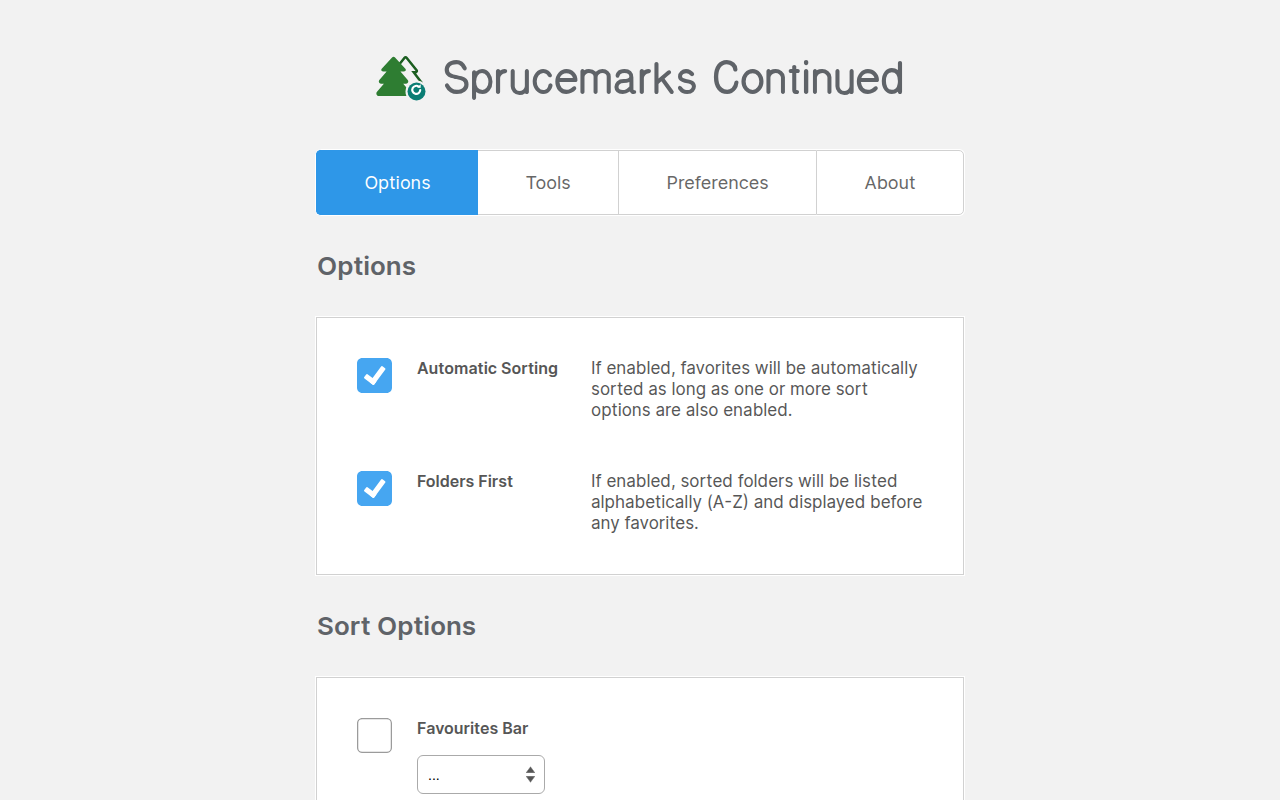
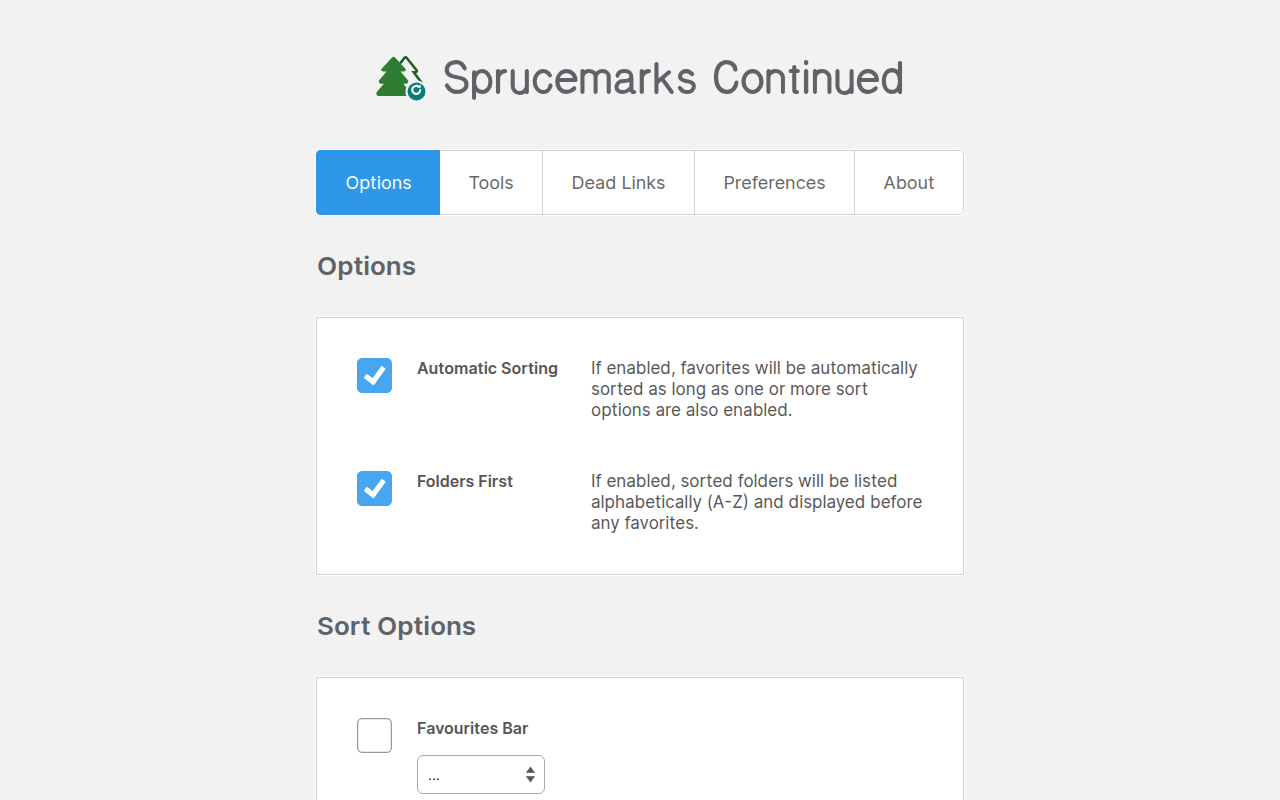
Release 2026.11.15.0: Dead Links
Version bump and changelog. Store listing: justification for the optional
host permissions, description with Dead Links (934 characters), privacy
note, certification notes for this update. Screenshot 3 is now the Dead
Links page (duplicates retired); 1, 5 and 6 refreshed for the new
navigation tab. Release steps: tag only when no earlier version is still
in store review.

Changed region(s): [[0.2812, 0.1875, 0.7188, 0.2812]]

diff --git a/store/make-store-assets.js b/store/make-store-assets.js
@@ -37,7 +37,23 @@ const SHOTS = [
             for (const c of [...s.querySelectorAll('input[type=checkbox]')].slice(0, 2)) { if (!c.checked) c.click(); ${wait(400)} }
             [...s.querySelectorAll('select')].slice(0, 2).forEach((x, i) => { x.value = ['alpha', 'date'][i]; x.dispatchEvent(new Event('change', { bubbles: true })) });
             ${wait(800)}; ${scrollTo('s', 110)}`, wait: 2000 },
-    { name: '3-duplicates', url: 'page/light/dark/tools.html', js: scrollTo(`document.getElementById('tool-duplicate-bookmarks')`, 30) },
+    { name: '3-dead-links', url: 'page/light/dark/dead-links.html',
+        // results are filled in (the screenshot browser can't check real websites); same shapes a real check produces
+        js: `const bm = await dead_links_page.bookmarks()
+            const pick = (title) => Object.values(bm).find((b) => b.title === title)
+            const row = (title, result, status, new_url) => { const b = pick(title); return [b.id, { url: b.url, title: b.title, location: b.location, result, status, new_url: new_url || '', dead: result === 'not_found' || result === 'unreachable', preselect: result === 'not_found', checked_at: Date.now() }] }
+            dead_links_page.state.results = Object.fromEntries([
+                row('Sourdough starter guide', 'not_found', 404),
+                row('Wikipedia - Spruce', 'not_found', 410),
+                row('Rome2Rio', 'unreachable', 0),
+                row('Archive.org', 'moved', 200, 'https://archive.org/details/booksbylanguage'),
+                row('MusicBrainz', 'timeout', 0),
+                row('Hacker News', 'unverified', 403)
+            ])
+            dead_links_page.selected = Object.fromEntries(Object.entries(dead_links_page.state.results).filter(([id, r]) => r.preselect).map(([id]) => [id, true]))
+            dead_links_page.state.last_run = { when: Date.now() - 180000, checked: 26, problems: 6, skipped_local: 0, stopped: false }
+            dead_links_page.render()
+            ${scrollTo(`document.querySelector('.dead-links-status')`, 120)}`, wait: 1000 },
     { name: '4-similar', url: 'page/light/dark/tools.html', js: scrollTo(`document.getElementById('tool-similar-bookmarks')`, 30) },
     { name: '5-preferences-dark', url: 'page/light/dark/preferences.html',
         js: `[...document.querySelectorAll('label')].find((l) => l.textContent.trim() === 'Dark').click()`, wait: 3000 },

diff --git a/deploy/page/dark/dark/about.html b/deploy/page/dark/dark/about.html
@@ -165,6 +165,27 @@
 
             <div class="box">
                 <div class="box-inner">
+                    <h3>November 15, 2026 &middot; version 2026.11.15.0</h3>
+
+                    <ul>
+                        <li>
+                            New Dead Links page: find <span class="only-non-edge">bookmarks</span><span class="only-edge">favorites</span> whose page no longer exists, has moved, or could not be verified, then update, ignore, or remove them.
+                        </li>
+                        <li>
+                            Nothing is checked until you click Check Links, and website access is asked for only then. Checks send no cookies and go straight from your browser to each site, at a polite pace.
+                        </li>
+                        <li>
+                            Removing saves a backup file first, which any browser can import to restore what was removed.
+                        </li>
+                        <li>
+                            Filter results by type and by site, select all, recheck only the problems, or start over.
+                        </li>
+                    </ul>
+                </div><!-- box-inner -->
+            </div><!-- box -->
+
+            <div class="box">
+                <div class="box-inner">
                     <h3>November 14, 2026 &middot; version 2026.11.14.1</h3>
 
                     <ul>

diff --git a/deploy/page/dark/green/about.html b/deploy/page/dark/green/about.html
@@ -165,6 +165,27 @@
 
             <div class="box">
                 <div class="box-inner">
+                    <h3>November 15, 2026 &middot; version 2026.11.15.0</h3>
+
+                    <ul>
+                        <li>
+                            New Dead Links page: find <span class="only-non-edge">bookmarks</span><span class="only-edge">favorites</span> whose page no longer exists, has moved, or could not be verified, then update, ignore, or remove them.
+                        </li>
+                        <li>
+                            Nothing is checked until you click Check Links, and website access is asked for only then. Checks send no cookies and go straight from your browser to each site, at a polite pace.
+                        </li>
+                        <li>
+                            Removing saves a backup file first, which any browser can import to restore what was removed.
+                        </li>
+                        <li>
+                            Filter results by type and by site, select all, recheck only the problems, or start over.
+                        </li>
+                    </ul>
+                </div><!-- box-inner -->
+            </div><!-- box -->
+
+            <div class="box">
+                <div class="box-inner">
                     <h3>November 14, 2026 &middot; version 2026.11.14.1</h3>
 
                     <ul>

diff --git a/deploy/page/dark/light/about.html b/deploy/page/dark/light/about.html
@@ -165,6 +165,27 @@
 
             <div class="box">
                 <div class="box-inner">
+                    <h3>November 15, 2026 &middot; version 2026.11.15.0</h3>
+
+                    <ul>
+                        <li>
+                            New Dead Links page: find <span class="only-non-edge">bookmarks</span><span class="only-edge">favorites</span> whose page no longer exists, has moved, or could not be verified, then update, ignore, or remove them.
+                        </li>
+                        <li>
+                            Nothing is checked until you click Check Links, and website access is asked for only then. Checks send no cookies and go straight from your browser to each site, at a polite pace.
+                        </li>
+                        <li>
+                            Removing saves a backup file first, which any browser can import to restore what was removed.
+                        </li>
+                        <li>
+                            Filter results by type and by site, select all, recheck only the problems, or start over.
+                        </li>
+                    </ul>
+                </div><!-- box-inner -->
+            </div><!-- box -->
+
+            <div class="box">
+                <div class="box-inner">
                     <h3>November 14, 2026 &middot; version 2026.11.14.1</h3>
 
                     <ul>

diff --git a/deploy/page/light/dark/about.html b/deploy/page/light/dark/about.html
@@ -165,6 +165,27 @@
 
             <div class="box">
                 <div class="box-inner">
+                    <h3>November 15, 2026 &middot; version 2026.11.15.0</h3>
+
+                    <ul>
+                        <li>
+                            New Dead Links page: find <span class="only-non-edge">bookmarks</span><span class="only-edge">favorites</span> whose page no longer exists, has moved, or could not be verified, then update, ignore, or remove them.
+                        </li>
+                        <li>
+                            Nothing is checked until you click Check Links, and website access is asked for only then. Checks send no cookies and go straight from your browser to each site, at a polite pace.
+                        </li>
+                        <li>
+                            Removing saves a backup file first, which any browser can import to restore what was removed.
+                        </li>
+                        <li>
+                            Filter results by type and by site, select all, recheck only the problems, or start over.
+                        </li>
+                    </ul>
+                </div><!-- box-inner -->
+            </div><!-- box -->
+
+            <div class="box">
+                <div class="box-inner">
                     <h3>November 14, 2026 &middot; version 2026.11.14.1</h3>
 
                     <ul>

diff --git a/deploy/page/light/green/about.html b/deploy/page/light/green/about.html
@@ -165,6 +165,27 @@
 
             <div class="box">
                 <div class="box-inner">
+                    <h3>November 15, 2026 &middot; version 2026.11.15.0</h3>
+
+                    <ul>
+                        <li>
+                            New Dead Links page: find <span class="only-non-edge">bookmarks</span><span class="only-edge">favorites</span> whose page no longer exists, has moved, or could not be verified, then update, ignore, or remove them.
+                        </li>
+                        <li>
+                            Nothing is checked until you click Check Links, and website access is asked for only then. Checks send no cookies and go straight from your browser to each site, at a polite pace.
+                        </li>
+                        <li>
+                            Removing saves a backup file first, which any browser can import to restore what was removed.
+                        </li>
+                        <li>
+                            Filter results by type and by site, select all, recheck only the problems, or start over.
+                        </li>
+                    </ul>
+                </div><!-- box-inner -->
+            </div><!-- box -->
+
+            <div class="box">
+                <div class="box-inner">
                     <h3>November 14, 2026 &middot; version 2026.11.14.1</h3>
 
                     <ul>

diff --git a/deploy/page/light/light/about.html b/deploy/page/light/light/about.html
@@ -165,6 +165,27 @@
 
             <div class="box">
                 <div class="box-inner">
+                    <h3>November 15, 2026 &middot; version 2026.11.15.0</h3>
+
+                    <ul>
+                        <li>
+                            New Dead Links page: find <span class="only-non-edge">bookmarks</span><span class="only-edge">favorites</span> whose page no longer exists, has moved, or could not be verified, then update, ignore, or remove them.
+                        </li>
+                        <li>
+                            Nothing is checked until you click Check Links, and website access is asked for only then. Checks send no cookies and go straight from your browser to each site, at a polite pace.
+                        </li>
+                        <li>
+                            Removing saves a backup file first, which any browser can import to restore what was removed.
+                        </li>
+                        <li>
+                            Filter results by type and by site, select all, recheck only the problems, or start over.
+                        </li>
+                    </ul>
+                </div><!-- box-inner -->
+            </div><!-- box -->
+
+            <div class="box">
+                <div class="box-inner">
                     <h3>November 14, 2026 &middot; version 2026.11.14.1</h3>
 
                     <ul>

diff --git a/store/listing.md b/store/listing.md
@@ -18,7 +18,9 @@ Copy these into Partner Center (Microsoft Edge → your extension). Images are i
 ## Properties
 
 - Category: **Productivity**
-- Privacy policy URL: `https://github.com/vitorhmcorreia/sprucemarks-continued/blob/main/PRIVACY.md`
+- Privacy policy URL: `https://github.com/vitorhmcorreia/sprucemarks-continued/blob/main/PRIVACY.md` (from
+  2026.11.15.0 it also describes the Dead Links checks; data collection answers stay "none": the checks contact the
+  bookmarked sites themselves and nothing is collected)
   (strictly only required when an extension collects personal data; this one collects none, but a link costs nothing
   and answers the question up front)
 - Website URL: `https://github.com/vitorhmcorreia/sprucemarks-continued`
@@ -39,13 +41,20 @@ Sprucemarks Continued sorts the user's favorites. It needs the bookmarks permiss
 Used to save the user's options (which folders to sort and how), preferences (theme, toolbar icon color) and the optional favorites history shown on the Tools page, in local extension storage on the user's device. Nothing is synced or sent anywhere.
 ```
 
+**Optional host permissions (`http://*/*`, `https://*/*`), from 2026.11.15.0:**
+
+```
+Optional, never requested at install. Used only by the Dead Links page: when the user clicks "Check Links", the extension asks for this access, then sends a HEAD (or, to confirm a failure, a GET stopped after the headers) to each bookmarked address to see whether the page still exists, has moved, or is gone. Requests go directly from the browser to those sites, without cookies, at most 5 per second and 1.5 s apart per site, backing off when a site asks. Nothing is sent to the developer or anyone else. The user can revoke the access on that page at any time.
+```
+
 ## Store listing (English)
 
 **Short description** comes from the package (`source/_locales/en/messages.json`), 99 characters:
 
 > Automatically sort bookmarks by title, date, or URL. A community fork that keeps Sprucemarks alive.
 
-**Description** (888 characters; Partner Center allows 250 to 1,000, although Microsoft's docs say 10,000):
+**Description** (934 characters; Partner Center allows 250 to 1,000, although Microsoft's docs say 10,000; updated
+for 2026.11.15.0 with Dead Links):
 
 ```
 Sprucemarks Continued keeps your favorites in order, automatically.
@@ -53,14 +62,13 @@ Sprucemarks Continued keeps your favorites in order, automatically.
 Choose a sort order for the favorites bar, other favorites and mobile favorites, each with its own setting for sub folders, and your favorites stay sorted as you add, move or rename them.
 
 • Sort by title, date added or URL, in either direction
-• Optionally list folders first
-• Tools to find empty folders, duplicate favorites and similar favorites
-• Favorites history: recently added, modified or removed
+• Tools to find empty folders, duplicate and similar favorites
+• Dead Links: find favorites whose page is gone or has moved, then update, ignore or remove them, with a backup file first
 • Light and dark themes
 
-Privacy: everything happens inside your browser. No data is collected or sent anywhere, with no analytics, ads or tracking.
+Privacy: no data is collected, no analytics, ads or tracking. Dead Links contacts the bookmarked sites directly from your browser, only when you click Check Links and allow it.
 
-Sprucemarks Continued is an unofficial community fork of Sprucemarks by Kai Nightmode, archived in 2026 and dedicated to the public domain. It is not affiliated with or endorsed by the original author. Source code: github.com/vitorhmcorreia/sprucemarks-continued
+An unofficial community fork of Sprucemarks by Kai Nightmode, archived in 2026 and dedicated to the public domain; not affiliated with or endorsed by the original author. Source code: github.com/vitorhmcorreia/sprucemarks-continued
 ```
 
 **Extension logo:** `logo-300.png` (300×300, 1:1)
@@ -73,7 +81,7 @@ Sprucemarks Continued is an unofficial community fork of Sprucemarks by Kai Nigh
 
 1. `screenshots/1-options.png`: options, automatic sorting on
 2. `screenshots/2-sort-options.png`: a sort order per folder and its sub folders
-3. `screenshots/3-duplicates.png`: duplicate favorites tool
+3. `screenshots/3-dead-links.png`: Dead Links results (from 2026.11.15.0; before that `3-duplicates.png`)
 4. `screenshots/4-similar.png`: similar favorites tool
 5. `screenshots/5-preferences-dark.png`: preferences, dark theme
 6. `screenshots/6-about-dark.png`: about this fork
@@ -108,4 +116,17 @@ submission except `1-options.png` and `5-preferences-dark.png`, which now show t
 
 ```
 Update with no new permissions (still only "bookmarks" and "storage"). Changes: the Tools page finds similar favorites about 15 times faster on large collections; the About page shows a timing summary and which build is running; a green page logo matching the icon; developer console logging is off; links to this listing. No network requests, no data collected. Source and change history: https://github.com/vitorhmcorreia/sprucemarks-continued
+```
+
+### 2026.11.15.0
+
+Submit only after 2026.11.14.1 is published: a new submission replaces one still in review and restarts its review.
+
+- Permissions: add the justification for the optional host permissions (above).
+- Description: replace with the updated one above.
+- Screenshots: replace `3-duplicates.png` with `3-dead-links.png`, and replace `1-options.png`, `5-preferences-dark.png`
+  and `6-about-dark.png` (the navigation now has a Dead Links tab; the About changelog is new). `2` and `4` are unchanged.
+
+```
+This update adds a Dead Links page and declares OPTIONAL host permissions (http://*/*, https://*/*). They are never requested at install; the extension asks for them only when the user clicks "Check Links" on that page, and the user can revoke them there. Required permissions are unchanged (bookmarks, storage). To test: open the extension, go to the Dead Links tab, click Check Links and allow the access; the page lists favorites whose address returns 404/410 (not found), cannot be reached, has moved, or could not be verified. Requests go directly to the bookmarked sites, without cookies, rate limited (1.5 s per site, 5/s overall, back-off on 429/503). Removing selected favorites first downloads a standard bookmarks HTML backup. No data is collected or sent to the developer. Source: https://github.com/vitorhmcorreia/sprucemarks-continued
 ```

diff --git a/ARCHITECTURE.md b/ARCHITECTURE.md
@@ -99,6 +99,9 @@ notice for people moving from the archived original (D6).
   2. `node build.js`, load `deploy/` unpacked and look it over, commit and push, wait for CI to pass;
   3. `git tag -a v<version> -m "<release notes>"` and `git push origin v<version>`: the Release workflow checks the
      version, runs the tests, builds the zip and publishes the GitHub Release (D12, D15);
-  4. upload that zip (from the release, or `node build.js --no-tests --zip`) to Partner Center.
+  4. upload that zip (from the release, or `node build.js --no-tests --zip`) to Partner Center, with the notes from
+     `store/listing.md` (Updates). Only when no earlier version is still in review: a new submission replaces the one
+     in review and restarts its review (Microsoft, "Update or remove an extension"). Prepare and merge the release PR
+     any time; push the tag when the store is ready for it.
 - Refresh the store images when the UI changed: `node store/make-store-assets.js` (after `node build.js`).
 - Store: Microsoft Edge Add-ons first (D3); what to paste where is in `store/listing.md`. Privacy answers: no data collected, see [PRIVACY.md](PRIVACY.md).
